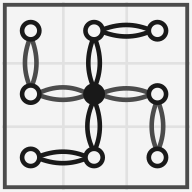
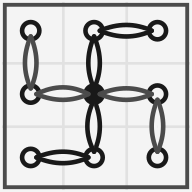
Fill the flow and float it above the other layers
The currents now paint last, so their petals occlude the grid and
points beneath. On the greyscale rendering the petals fill paper-white,
and the fill arrives only after each arm finishes drawing — on the
page, in favicon.svg, and in the canvas tab-icon animator alike.

The design page gains a fill option for the currents: none by default,
or a repeating pattern — hatch, cross, dots, dna, sun, paw, cat, dog,
flower, tree — tinted in each current's own color. Swatches and the
layer chip preview the real pattern defs, a fill URL param preselects
one, and the raster icons are regenerated.

diff --git a/design.html b/design.html
@@ -141,19 +141,21 @@
     .preview svg.draw .flow path {
       stroke-dasharray: 34;
       stroke-dashoffset: 34;
-      animation: draw 1.1s ease-out forwards;
-      animation-delay: 0.35s;
+      fill-opacity: 0;
+      animation: draw 1.1s ease-out forwards, fill-in 0.6s ease-out forwards;
+      animation-delay: 0.35s, 1.45s; /* the fill arrives once the arm is drawn */
     }
     .preview svg.draw .flow path.rev { stroke-dashoffset: -34; }
-    .preview svg.draw .flow path.outer { animation-delay: 1.4s; }
+    .preview svg.draw .flow path.outer { animation-delay: 1.4s, 2.5s; }
 
     .preview svg.draw circle { opacity: 0; animation: appear 0.4s ease-out forwards; }
     .preview svg.draw circle.neutral { animation-delay: 0.05s; }
     .preview svg.draw circle.mid    { animation-delay: 1.25s; }
     .preview svg.draw circle.corner { animation-delay: 2.3s; }
 
-    @keyframes draw   { to { stroke-dashoffset: 0; } }
-    @keyframes appear { to { opacity: 1; } }
+    @keyframes draw    { to { stroke-dashoffset: 0; } }
+    @keyframes fill-in { to { fill-opacity: 1; } }
+    @keyframes appear  { to { opacity: 1; } }
   }
 
   /* ---------- right · the panel ---------- */
@@ -246,6 +248,15 @@
   }
   .swatch:hover { border-color: var(--g30); }
   .swatch.on { outline: 2px solid var(--g10); outline-offset: 1px; border-color: var(--g95); }
+
+  /* fill options: none and the patterns (also worn by the layer chip) */
+  .px-none {
+    background: linear-gradient(to top left,
+      transparent 45%, var(--g60) 45%, var(--g60) 55%, transparent 55%) var(--g95);
+  }
+  .swatch.pat { background: var(--g95); }
+  .swatch.pat svg, .layer .name i svg { display: block; width: 100%; height: 100%; }
+
   .layer input[type="color"] {
     width: 1.35rem; height: 1.35rem;
     border: 1px dashed var(--g60); background: none;
@@ -348,7 +359,7 @@
 const SCHEMES = [
   { key: 'greyscale', name: 'greyscale (default)',
     palette: ['#f4f4f4','#191919','#323232','#4b4b4b','#646464','#7d7d7d','#969696','#afafaf','#c8c8c8','#e1e1e1'],
-    map: { paper:'#f4f4f4', frame:'#4b4b4b', points:'#191919', neutral:'#191919', solve:'#4b4b4b', coagula:'#191919' } },
+    map: { paper:'#f4f4f4', frame:'#4b4b4b', points:'#191919', neutral:'#191919', solve:'#4b4b4b', coagula:'#191919', fill:'#f4f4f4' } },
   { key: 'gruvbox', name: 'gruvbox dark',
     palette: ['#282828','#ebdbb2','#cc241d','#98971a','#d79921','#458588','#b16286','#689d6a','#d65d0e','#928374'] },
   { key: 'nord', name: 'nord',
@@ -380,14 +391,17 @@ const LAYERS = [
   { key: 'neutral', label: 'neutral now — the live box' },
   { key: 'solve',   label: 'solve — the current that takes apart' },
   { key: 'coagula', label: 'coagula — the current that binds' },
+  { key: 'fill',    label: 'fill — inside the currents' },
 ];
 
+const FILL_PATTERNS = ['hatch', 'cross', 'dots', 'dna', 'sun', 'paw', 'cat', 'dog', 'flower', 'tree'];
+
 // default mapping for terminal schemes: bg→paper, gray→frame, fg→points,
-// red→neutral, orange→solve (dissolves), blue→coagula (binds)
+// red→neutral, orange→solve (dissolves), blue→coagula (binds); fill stays open
 function defaultMap(s) {
   if (s.map) return { ...s.map };
   const p = s.palette;
-  return { paper: p[0], frame: p[9], points: p[1], neutral: p[2], solve: p[8], coagula: p[5] };
+  return { paper: p[0], frame: p[9], points: p[1], neutral: p[2], solve: p[8], coagula: p[5], fill: 'none' };
 }
 
 /* ---------------- state ---------------- */
@@ -424,12 +438,76 @@ const POINTS = [
   [16,82],[49,82],[82,82],
 ];
 
+// repeating tiles in the current's own color — geometric weaves and little motifs
+const PATTERN_TILES = {
+  hatch: { w: 3, h: 3, rot: 45, body: c =>
+    `<line x1="1.5" y1="0" x2="1.5" y2="3" stroke="${c}" stroke-width="0.5"/>` },
+  cross: { w: 3, h: 3, rot: 45, body: c =>
+    `<path d="M 0 1.5 H 3 M 1.5 0 V 3" stroke="${c}" stroke-width="0.4" fill="none"/>` },
+  dots: { w: 3, h: 3, body: c =>
+    `<circle cx="1.5" cy="1.5" r="0.5" fill="${c}"/>` },
+  dna: { w: 6, h: 4, body: c =>
+    `<path d="M 0 0.7 Q 3 4.6 6 0.7 M 0 3.3 Q 3 -0.6 6 3.3" fill="none" stroke="${c}" stroke-width="0.35"/>
+     <path d="M 2.4 1.45 V 2.55 M 3 1.4 V 2.6 M 3.6 1.45 V 2.55" stroke="${c}" stroke-width="0.3"/>` },
+  sun: { w: 6, h: 6, body: c =>
+    `<circle cx="3" cy="3" r="0.9" fill="${c}"/>
+     <path d="M 3 0.6 V 1.5 M 3 4.5 V 5.4 M 0.6 3 H 1.5 M 4.5 3 H 5.4
+              M 1.3 1.3 L 1.95 1.95 M 4.05 4.05 L 4.7 4.7 M 4.7 1.3 L 4.05 1.95 M 1.95 4.05 L 1.3 4.7"
+       stroke="${c}" stroke-width="0.35" stroke-linecap="round"/>` },
+  paw: { w: 6, h: 6, body: c =>
+    `<ellipse cx="3" cy="3.7" rx="1.15" ry="0.95" fill="${c}"/>
+     <circle cx="1.7" cy="2.6" r="0.5" fill="${c}"/>
+     <circle cx="3" cy="2.05" r="0.5" fill="${c}"/>
+     <circle cx="4.3" cy="2.6" r="0.5" fill="${c}"/>` },
+  cat: { w: 6, h: 6, body: c =>
+    `<circle cx="3" cy="3.3" r="1.6" fill="${c}"/>
+     <path d="M 1.7 2.6 L 1.4 0.9 L 3 1.75 Z M 4.3 2.6 L 4.6 0.9 L 3 1.75 Z" fill="${c}"/>` },
+  dog: { w: 6, h: 6, body: c =>
+    `<circle cx="3" cy="3" r="1.45" fill="${c}"/>
+     <ellipse cx="1.55" cy="3.15" rx="0.55" ry="1.15" fill="${c}"/>
+     <ellipse cx="4.45" cy="3.15" rx="0.55" ry="1.15" fill="${c}"/>` },
+  flower: { w: 6, h: 6, body: c =>
+    `<circle cx="3" cy="1.65" r="0.7" fill="${c}"/>
+     <circle cx="4.35" cy="3" r="0.7" fill="${c}"/>
+     <circle cx="3" cy="4.35" r="0.7" fill="${c}"/>
+     <circle cx="1.65" cy="3" r="0.7" fill="${c}"/>
+     <circle cx="3" cy="3" r="0.5" fill="${c}"/>` },
+  tree: { w: 6, h: 6, body: c =>
+    `<path d="M 3 0.8 L 4.3 3 L 1.7 3 Z" fill="${c}"/>
+     <path d="M 3 1.9 L 4.6 4.3 L 1.4 4.3 Z" fill="${c}"/>
+     <rect x="2.7" y="4.3" width="0.6" height="0.9" fill="${c}"/>` },
+};
+
+function patternDef(type, id, color) {
+  const t = PATTERN_TILES[type];
+  const rot = t.rot ? ` patternTransform="rotate(${t.rot})"` : '';
+  return `<pattern id="pat-${id}" width="${t.w}" height="${t.h}" patternUnits="userSpaceOnUse"${rot}>${t.body(color)}</pattern>`;
+}
+
+// a self-contained mini preview of a pattern, used for swatches and chips
+function patternSwatchSVG(p, id) {
+  return `<svg viewBox="0 0 6 6" aria-hidden="true"><defs>${patternDef(p, id, '#4b4b4b')}</defs>
+    <rect width="6" height="6" fill="url(#pat-${id})"/></svg>`;
+}
+
+// the fill option: 'none' (default), a color, or a pattern name
+function flowFill(m, cur) {
+  const v = m.fill || 'none';
+  if (v === 'none') return 'none';
+  if (v[0] === '#') return v;
+  return `url(#pat-${cur})`;
+}
+
 function symbolSVG(m, size, animate) {
   const coagula = COAGULA_PATHS.map((d, i) => `<path class="${COAGULA_CLASS[i]}" d="${d}"/>`).join('\n      ');
   const solve = SOLVE_PATHS.map((d, i) => `<path class="${SOLVE_CLASS[i]}" d="${d}"/>`).join('\n      ');
   const pts = POINTS.map(([x,y]) =>
     `<circle class="${x === 49 || y === 49 ? 'mid' : 'corner'}" cx="${x}" cy="${y}" r="3"/>`).join('\n      ');
+  const defs = FILL_PATTERNS.includes(m.fill)
+    ? `<defs>${patternDef(m.fill, 'solve', m.solve)}${patternDef(m.fill, 'coagula', m.coagula)}</defs>`
+    : '';
   return `<svg xmlns="http://www.w3.org/2000/svg" width="${size}" height="${size}" viewBox="0 0 100 100"${animate ? ' class="draw"' : ''}>
+    ${defs}
     <rect width="100" height="100" fill="${m.paper}"/>
     <g stroke="${m.frame}" stroke-width="0.5" opacity="0.45" fill="none">
       <line x1="99" y1="33" x2="1" y2="33"/>
@@ -438,16 +516,16 @@ function symbolSVG(m, size, animate) {
       <line x1="66" y1="1" x2="66" y2="99"/>
     </g>
     <rect x="1" y="1" width="98" height="98" fill="none" stroke="${m.frame}" stroke-width="0.7"/>
-    <g class="flow coagula" fill="none" stroke="${m.coagula}" stroke-width="0.6" stroke-linecap="round">
-      ${coagula}
-    </g>
-    <g class="flow solve" fill="none" stroke="${m.solve}" stroke-width="0.6" stroke-linecap="round">
-      ${solve}
-    </g>
     <g fill="${m.paper}" stroke="${m.points}" stroke-width="0.9">
       ${pts}
     </g>
     <circle class="neutral" cx="49" cy="49" r="3" fill="${m.neutral}" stroke="${m.neutral}" stroke-width="0.9"/>
+    <g class="flow coagula" fill="${flowFill(m, 'coagula')}" stroke="${m.coagula}" stroke-width="0.6" stroke-linecap="round">
+      ${coagula}
+    </g>
+    <g class="flow solve" fill="${flowFill(m, 'solve')}" stroke="${m.solve}" stroke-width="0.6" stroke-linecap="round">
+      ${solve}
+    </g>
   </svg>`;
 }
 
@@ -624,6 +702,15 @@ function schemeViewHTML() {
 
 function layersViewHTML() {
   const rows = LAYERS.map(l => {
+    // the fill layer offers none (default) and patterns — no plain colors
+    if (l.key === 'fill') {
+      const opts = `<button class="swatch px-none" data-layer="fill" data-color="none" title="none"></button>` +
+        FILL_PATTERNS.map(p =>
+          `<button class="swatch pat" data-layer="fill" data-color="${p}" title="${p}">${patternSwatchSVG(p, 'sw-' + p)}</button>`).join('');
+      return `<div class="layer">
+        <div class="name"><i id="chip-${l.key}"></i>${l.label}</div>
+        <div class="swatches">${opts}</div></div>`;
+    }
     const swatches = scheme.palette.map(c =>
       `<button class="swatch" data-layer="${l.key}" data-color="${c}" style="background:${c}" title="${c}"></button>`
     ).join('');
@@ -668,8 +755,14 @@ function updateStates() {
   LAYERS.forEach(l => {
     const chip = document.getElementById('chip-' + l.key);
     const inp = document.getElementById('custom-' + l.key);
-    if (chip) chip.style.background = map[l.key];
-    if (inp) inp.value = map[l.key];
+    const v = map[l.key];
+    const isColor = typeof v === 'string' && v[0] === '#';
+    if (chip) {
+      chip.className = v === 'none' ? 'px-none' : '';
+      chip.style.background = isColor ? v : '';
+      chip.innerHTML = isColor || v === 'none' ? '' : patternSwatchSVG(v, 'chip');
+    }
+    if (inp && isColor) inp.value = v;
   });
 }
 
@@ -728,6 +821,8 @@ const params = new URLSearchParams(location.search);
 const preselect = SCHEMES.find(s => s.key === params.get('scheme'));
 if (preselect) { scheme = preselect; map = defaultMap(preselect); }
 if (params.get('tab') === 'layers') tab = 'layers';
+const pfill = params.get('fill');
+if (pfill === 'none' || FILL_PATTERNS.includes(pfill)) map.fill = pfill;
 
 navBtns.forEach(b => b.classList.toggle('active', b.dataset.tab === tab));
 $pbody.innerHTML = tab === 'scheme' ? schemeViewHTML() : layersViewHTML();
@@ -747,7 +842,7 @@ updateStates();
   const ctx = cnv.getContext('2d');
   if (!ctx) return;
 
-  const L = 34, ARM_DUR = 1100, PT_DUR = 400, END = 2800;
+  const L = 34, ARM_DUR = 1100, PT_DUR = 400, END = 2950;
   // [path, delay, rev] — rev draws toward the centre's far end, as on the page
   const SOLVE = [
     ['M 16 19 Q 10 33 16 46', 1400, 1], ['M 16 19 Q 22 33 16 46', 1400, 1],
@@ -790,16 +885,6 @@ updateStates();
     ctx.strokeRect(2.5, 2.5, 95, 95);
 
     ctx.lineCap = 'round'; ctx.lineWidth = 2.4;
-    for (const a of ARMS) {
-      const e = ease(clamp((t - a.t0) / ARM_DUR));
-      if (e <= 0) continue;
-      ctx.strokeStyle = a.c;
-      if (a.rev) { ctx.setLineDash([L, L]); ctx.lineDashOffset = L + e * L; }
-      else { ctx.setLineDash([e * L, 2 * L]); ctx.lineDashOffset = 0; }
-      ctx.stroke(a.p);
-    }
-    ctx.setLineDash([]);
-
     for (const [x, y, t0] of PTS) {
       const a = ease(clamp((t - t0) / PT_DUR));
       if (a <= 0) continue;
@@ -812,6 +897,24 @@ updateStates();
       ctx.strokeStyle = '#191919';
       ctx.stroke();
       ctx.globalAlpha = 1;
+    }
+
+    // the flow layer sits above the points; the white fill arrives after the draw
+    for (const a of ARMS) {
+      const e = ease(clamp((t - a.t0) / ARM_DUR));
+      if (e <= 0) continue;
+      const f = ease(clamp((t - a.t0 - ARM_DUR) / PT_DUR));
+      if (f > 0) {
+        ctx.fillStyle = '#f4f4f4';
+        ctx.globalAlpha = f;
+        ctx.fill(a.p);
+        ctx.globalAlpha = 1;
+      }
+      ctx.strokeStyle = a.c;
+      if (a.rev) { ctx.setLineDash([L, L]); ctx.lineDashOffset = L + e * L; }
+      else { ctx.setLineDash([e * L, 2 * L]); ctx.lineDashOffset = 0; }
+      ctx.stroke(a.p);
+      ctx.setLineDash([]);
     }
     link.href = cnv.toDataURL('image/png');
   }

diff --git a/index.html b/index.html
@@ -133,7 +133,7 @@
   .logo .frame  { stroke: var(--g90); stroke-width: 0.5; }
   .logo .cube   { fill: none; stroke: var(--g30); stroke-width: 0.7; }
   .logo .points { fill: var(--g95); stroke: var(--g10); stroke-width: 0.9; }
-  .logo .flow    { fill: none; stroke-width: 0.6; stroke-linecap: round; }
+  .logo .flow    { stroke-width: 0.6; stroke-linecap: round; fill: var(--g95); } /* white fill — the flow occludes the layers beneath */
   .logo .coagula { stroke: var(--g10); } /* binds — rises bottom-left → top-right */
   .logo .solve   { stroke: var(--g30); } /* takes apart — descends top-left → bottom-right */
   .logo .neutral { fill: var(--g10); }
@@ -151,19 +151,21 @@
     .logo .flow path {
       stroke-dasharray: 34;
       stroke-dashoffset: 34;
-      animation: draw 1.1s ease-out forwards;
-      animation-delay: 0.35s;
+      fill-opacity: 0;
+      animation: draw 1.1s ease-out forwards, fill-in 0.6s ease-out forwards;
+      animation-delay: 0.35s, 1.45s; /* the fill arrives once the arm is drawn */
     }
     .logo .flow path.rev { stroke-dashoffset: -34; }
-    .logo .flow path.outer { animation-delay: 1.4s; }
+    .logo .flow path.outer { animation-delay: 1.4s, 2.5s; }
 
     .logo .points circle { opacity: 0; animation: appear 0.4s ease-out forwards; }
     .logo .points .neutral { animation-delay: 0.05s; }
     .logo .points .mid    { animation-delay: 1.25s; }
     .logo .points .corner { animation-delay: 2.3s; }
 
-    @keyframes draw   { to { stroke-dashoffset: 0; } }
-    @keyframes appear { to { opacity: 1; } }
+    @keyframes draw    { to { stroke-dashoffset: 0; } }
+    @keyframes fill-in { to { fill-opacity: 1; } }
+    @keyframes appear  { to { opacity: 1; } }
   }
 
   /* ---------- right · the panel ---------- */
@@ -313,6 +315,18 @@
         <line x1="33" y1="1" x2="33" y2="99"/>
         <line x1="66" y1="1" x2="66" y2="99"/>
       </g>
+      <g class="points">
+        <circle class="corner" cx="16" cy="16" r="3"/>
+        <circle class="mid" cx="49" cy="16" r="3"/>
+        <circle class="corner" cx="82" cy="16" r="3"/>
+        <circle class="mid" cx="16" cy="49" r="3"/>
+        <circle class="neutral" cx="49" cy="49" r="3"/>
+        <circle class="mid" cx="82" cy="49" r="3"/>
+        <circle class="corner" cx="16" cy="82" r="3"/>
+        <circle class="mid" cx="49" cy="82" r="3"/>
+        <circle class="corner" cx="82" cy="82" r="3"/>
+      </g>
+      <!-- the flow layer sits above the rest -->
       <!-- solve — the main diagonal: top-left → left-mid → centre → right-mid → bottom-right -->
       <g class="flow solve">
         <path class="outer rev" d="M 16 19 Q 10 33 16 46"/>
@@ -334,17 +348,6 @@
         <path class="inner" d="M 49 46 Q 55 33 49 19"/>
         <path class="outer" d="M 52 16 Q 66 10 79 16"/>
         <path class="outer" d="M 52 16 Q 66 22 79 16"/>
-      </g>
-      <g class="points">
-        <circle class="corner" cx="16" cy="16" r="3"/>
-        <circle class="mid" cx="49" cy="16" r="3"/>
-        <circle class="corner" cx="82" cy="16" r="3"/>
-        <circle class="mid" cx="16" cy="49" r="3"/>
-        <circle class="neutral" cx="49" cy="49" r="3"/>
-        <circle class="mid" cx="82" cy="49" r="3"/>
-        <circle class="corner" cx="16" cy="82" r="3"/>
-        <circle class="mid" cx="49" cy="82" r="3"/>
-        <circle class="corner" cx="82" cy="82" r="3"/>
       </g>
       <g class="cells">
         <rect data-cell="why-past"     x="1"  y="1"  width="32" height="32"/>
@@ -634,7 +637,7 @@ if (CELLS[hash]) {
   const ctx = cnv.getContext('2d');
   if (!ctx) return;
 
-  const L = 34, ARM_DUR = 1100, PT_DUR = 400, END = 2800;
+  const L = 34, ARM_DUR = 1100, PT_DUR = 400, END = 2950;
   // [path, delay, rev] — rev draws toward the centre's far end, as on the page
   const SOLVE = [
     ['M 16 19 Q 10 33 16 46', 1400, 1], ['M 16 19 Q 22 33 16 46', 1400, 1],
@@ -677,16 +680,6 @@ if (CELLS[hash]) {
     ctx.strokeRect(2.5, 2.5, 95, 95);
 
     ctx.lineCap = 'round'; ctx.lineWidth = 2.4;
-    for (const a of ARMS) {
-      const e = ease(clamp((t - a.t0) / ARM_DUR));
-      if (e <= 0) continue;
-      ctx.strokeStyle = a.c;
-      if (a.rev) { ctx.setLineDash([L, L]); ctx.lineDashOffset = L + e * L; }
-      else { ctx.setLineDash([e * L, 2 * L]); ctx.lineDashOffset = 0; }
-      ctx.stroke(a.p);
-    }
-    ctx.setLineDash([]);
-
     for (const [x, y, t0] of PTS) {
       const a = ease(clamp((t - t0) / PT_DUR));
       if (a <= 0) continue;
@@ -699,6 +692,24 @@ if (CELLS[hash]) {
       ctx.strokeStyle = '#191919';
       ctx.stroke();
       ctx.globalAlpha = 1;
+    }
+
+    // the flow layer sits above the points; the white fill arrives after the draw
+    for (const a of ARMS) {
+      const e = ease(clamp((t - a.t0) / ARM_DUR));
+      if (e <= 0) continue;
+      const f = ease(clamp((t - a.t0 - ARM_DUR) / PT_DUR));
+      if (f > 0) {
+        ctx.fillStyle = '#f4f4f4';
+        ctx.globalAlpha = f;
+        ctx.fill(a.p);
+        ctx.globalAlpha = 1;
+      }
+      ctx.strokeStyle = a.c;
+      if (a.rev) { ctx.setLineDash([L, L]); ctx.lineDashOffset = L + e * L; }
+      else { ctx.setLineDash([e * L, 2 * L]); ctx.lineDashOffset = 0; }
+      ctx.stroke(a.p);
+      ctx.setLineDash([]);
     }
     link.href = cnv.toDataURL('image/png');
   }